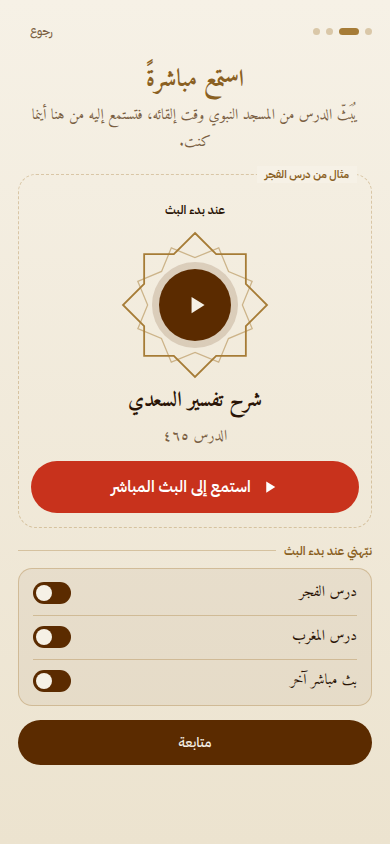
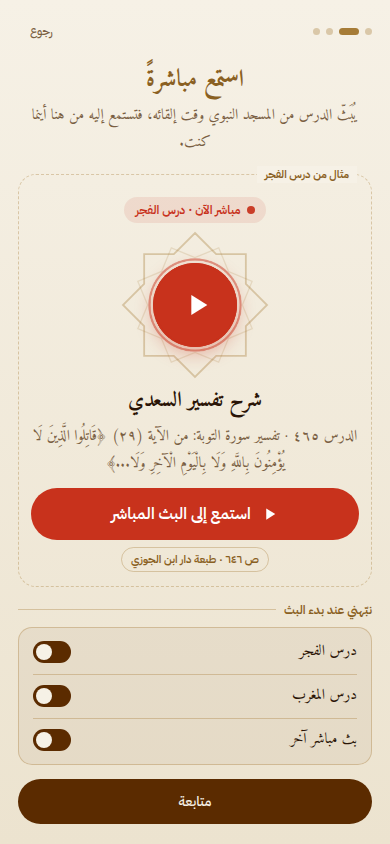
fix(onboarding): the live step shows the real live hero, red and pulsing
The off-air preview turned the live hero's colour and rings off, so the example did
not look like what the listener taps during a broadcast. The preview mode is gone:
off air, the hero is given the lesson as if it had just started, which reads the next
lesson and its passage from the course, and renders exactly as on air.

Changed region(s): [[0.0308, 0.4929, 0.9538, 0.9858], [0.3077, 0.2464, 0.6769, 0.4621], [0.8923, 0.4929, 0.9231, 0.5237]]

diff --git a/app/src/ui/LiveHero.tsx b/app/src/ui/LiveHero.tsx
@@ -3,22 +3,17 @@ import { liveContext, liveLesson } from '../logic/live';
 import { ar, slotName } from './format';
 import { Disc, Icon } from './Star';
 
-// preview: how the hero looks once the lesson starts, shown while nothing is on air.
-export function LiveHero(p: { course: CourseDTO | undefined; live: LiveDTO; listening: boolean; onLive: () => void; preview?: { number: number } }) {
+export function LiveHero(p: { course: CourseDTO | undefined; live: LiveDTO; listening: boolean; onLive: () => void }) {
   const c = p.course;
-  const ctx = c && !p.preview ? liveContext(c, true, p.live.startedAt) : null;
-  const number = p.preview ? p.preview.number : c ? liveLesson(c, p.live.startedAt).number : null;
+  const ctx = c ? liveContext(c, true, p.live.startedAt) : null;
+  const number = c ? liveLesson(c, p.live.startedAt).number : null;
   return (
     <div class="hero">
-      {p.preview ? (
-        <span class="tag">عند بدء البث</span>
-      ) : (
-        <span class="tag live">
-          <i class="dot" />
-          {c ? `مباشر الآن · درس ${slotName(c.slot)}` : 'مباشر الآن'}
-        </span>
-      )}
-      <Disc icon="play" label="استمع إلى البث المباشر" onClick={p.onLive} live={p.preview ? undefined : p.listening ? 'still' : 'pulse'} />
+      <span class="tag live">
+        <i class="dot" />
+        {c ? `مباشر الآن · درس ${slotName(c.slot)}` : 'مباشر الآن'}
+      </span>
+      <Disc icon="play" label="استمع إلى البث المباشر" onClick={p.onLive} live={p.listening ? 'still' : 'pulse'} />
       <h3>{c ? c.title : 'البث المباشر'}</h3>
       {number !== null && (
         <p>

diff --git a/app/src/ui/Onboarding.tsx b/app/src/ui/Onboarding.tsx
@@ -34,6 +34,9 @@ const TEXT: Record<Exclude<Step, 'app'>, { title: string; body: string; switches
   },
 };
 
+// Off air, the hero is shown as it will look once this lesson starts: it then reads the next lesson from the course.
+const onAir = (live: StateDTO['live'], course: CourseDTO) => (live.isLive && live.courseId === course.id ? live : { ...live, isLive: true, courseId: course.id, startedAt: null });
+
 // A card shown as an example: it looks real but nothing in it can be tapped, focused or read twice by a screen reader.
 function Example({ card, live, now }: { card: Card; live: StateDTO['live']; now: Date }) {
   const { course } = card;
@@ -45,8 +48,7 @@ function Example({ card, live, now }: { card: Card; live: StateDTO['live']; now:
   return (
     <div class="frame" inert aria-hidden="true" onClickCapture={block}>
       <span class="flabel">مثال من درس {slot}</span>
-      {card.kind === 'live' && <LiveHero course={course} live={live} listening={false} onLive={noop} />}
-      {card.kind === 'preview' && <LiveHero course={course} live={live} listening={false} onLive={noop} preview={{ number: card.number }} />}
+      {card.kind === 'live' && <LiveHero course={course} live={onAir(live, course)} listening={false} onLive={noop} />}
       {card.kind === 'recording' && <RecordingCard course={course} lesson={card.lesson} reviewed={false} onPlay={noop} onTick={noop} />}
       {card.kind === 'next' && <NextCard course={course} next={card.next} read={false} when={`${dayWord(card.next.date, now)} بعد ${slot} · ${clock12(card.next.time)}`} onTick={noop} />}
     </div>

diff --git a/app/test/cards.test.tsx b/app/test/cards.test.tsx
@@ -1,9 +1,8 @@
-import { cleanup, render, screen } from '@testing-library/preact';
+import { cleanup, render } from '@testing-library/preact';
 import { afterEach, describe, expect, it } from 'vitest';
 import { FIXTURE_STATE } from '../src/dev/fixture-state';
 import { NextCard, RecordingCard } from '../src/ui/cards';
 import { Lesson } from '../src/ui/Lesson';
-import { LiveHero } from '../src/ui/LiveHero';
 
 const [tafsir] = FIXTURE_STATE.courses;
 const MON_2110 = new Date('2026-11-02T18:10:00Z');
@@ -30,12 +29,5 @@ describe('cards shared by the lesson screen and the onboarding', () => {
     cleanup();
     const rec = render(<RecordingCard course={tafsir} lesson={tafsir.latest[0]} reviewed={false} onPlay={noop} onTick={noop} />);
     expect(rec.container.innerHTML).toBe(inLesson.recording);
-  });
-
-  it('the live hero has a preview for when nothing is on air', () => {
-    render(<LiveHero course={tafsir} live={FIXTURE_STATE.live} listening={false} onLive={noop} preview={{ number: 444 }} />);
-    expect(screen.getByText('عند بدء البث')).toBeTruthy();
-    expect(screen.getByText(/الدرس ٤٤٤/)).toBeTruthy();
-    expect(screen.queryByText(/مباشر الآن/)).toBeNull();
   });
 });

diff --git a/app/test/onboarding-logic.test.ts b/app/test/onboarding-logic.test.ts
@@ -68,13 +68,9 @@ describe('cardFor', () => {
     expect(cardFor('live', [tafsir, tawhid], liveDTO('kitab-tawhid'))).toEqual({ course: tawhid, kind: 'live' });
   });
 
-  it('live: otherwise a preview of the first picked lesson with its next number', () => {
-    expect(cardFor('live', [tafsir, tawhid], quiet)).toEqual({ course: tafsir, kind: 'preview', number: 444 });
-    expect(cardFor('live', [tafsir], liveDTO('kitab-tawhid'))).toEqual({ course: tafsir, kind: 'preview', number: 444 });
-  });
-
-  it('live: a lesson with nothing scheduled previews the lesson after its last one', () => {
-    expect(cardFor('live', [{ ...tafsir, next: null }], quiet)).toEqual({ course: { ...tafsir, next: null }, kind: 'preview', number: 444 });
+  it('live: otherwise the first picked lesson, shown as it will be on air', () => {
+    expect(cardFor('live', [tafsir, tawhid], quiet)).toEqual({ course: tafsir, kind: 'live' });
+    expect(cardFor('live', [tafsir], liveDTO('kitab-tawhid'))).toEqual({ course: tafsir, kind: 'live' });
   });
 
   it('revision: the first picked lesson with a recording', () => {

diff --git a/app/src/logic/onboarding.ts b/app/src/logic/onboarding.ts
@@ -13,7 +13,6 @@ export interface Draft {
 
 export type Card =
   | { course: CourseDTO; kind: 'live' }
-  | { course: CourseDTO; kind: 'preview'; number: number }
   | { course: CourseDTO; kind: 'recording'; lesson: LessonDTO }
   | { course: CourseDTO; kind: 'next'; next: NextPassageDTO };
 
@@ -46,11 +45,8 @@ export function stepTopics(step: Step, picked: CourseDTO[]): { topic: string; co
 
 export function cardFor(step: Step, picked: CourseDTO[], live: LiveDTO): Card | null {
   if (step === 'live') {
-    const onAir = live.isLive ? picked.find((c) => c.id === live.courseId) : undefined;
-    if (onAir) return { course: onAir, kind: 'live' };
-    const first = picked[0];
-    if (!first) return null;
-    return { course: first, kind: 'preview', number: first.next?.number ?? (first.latest[0]?.number ?? 0) + 1 };
+    const course = (live.isLive && picked.find((c) => c.id === live.courseId)) || picked[0];
+    return course ? { course, kind: 'live' } : null;
   }
   if (step === 'rec') {
     const course = picked.find((c) => c.latest[0]?.recordingUrl);

diff --git a/app/test/onboarding.test.tsx b/app/test/onboarding.test.tsx
@@ -102,10 +102,12 @@ describe('the app screen', () => {
 });
 
 describe('the live step', () => {
-  it('shows the real live hero of the first lesson, as it will look when the broadcast starts', async () => {
+  it('shows the live hero of the first lesson exactly as during a broadcast: red, pulsing, with its next lesson', async () => {
     await toLive();
     expect(screen.getByText('مثال من درس الفجر')).toBeTruthy();
-    expect(screen.getByText('عند بدء البث')).toBeTruthy();
+    expect(screen.getByText('مباشر الآن · درس الفجر')).toBeTruthy();
+    expect(document.querySelector('.frame .disc')!.className).toBe('disc live pulse');
+    expect(screen.getByText(/الدرس ٤٤٤/)).toBeTruthy();
     expect(screen.getByText(fajr.title)).toBeTruthy();
     expect(switchOf('درس الفجر').getAttribute('aria-checked')).toBe('true');
     expect(switchOf('درس المغرب').getAttribute('aria-checked')).toBe('true');

diff --git a/app/test/visual/onboarding.visual.test.tsx b/app/test/visual/onboarding.visual.test.tsx
@@ -76,6 +76,14 @@ it('each switch row is a thumb-sized target and the example is labelled', async 
   for (const row of rows) expect(row.getBoundingClientRect().height).toBeGreaterThanOrEqual(44);
 });
 
+it('the example live hero paints and pulses like the real one', async () => {
+  const c = await at(1);
+  const disc = c.querySelector<HTMLElement>('.frame .disc .btn')!;
+  const go = c.querySelector<HTMLElement>('.frame .go-live')!;
+  expect(getComputedStyle(disc).backgroundColor).toBe(getComputedStyle(go).backgroundColor);
+  expect(getComputedStyle(disc, '::before').animationName).toBe('ring');
+});
+
 it('a real tap on the example book link opens nothing', async () => {
   location.hash = '#/';
   const c = await at(2);

diff --git a/docs/design/onboarding.md b/docs/design/onboarding.md
@@ -17,7 +17,7 @@ The first launch explains what the app is for and lets the listener choose their
 ```
 
 - **Screen 1** names each lesson with its real title, days and time, as checkable cards. At least one must be ticked.
-- **Steps 2–4** each show one card from the lesson screen (`LiveHero`, `RecordingCard`, `NextCard` from `ui/cards.tsx`), taken from the first ticked lesson that has the data, inside a frame labelled «مثال من درس …». Nothing in the frame reacts: `inert` and `aria-hidden` for focus and screen readers, a capture-phase click handler for taps. When nothing is on air the hero shows its preview («عند بدء البث», the next lesson's number).
+- **Steps 2–4** each show one card from the lesson screen (`LiveHero`, `RecordingCard`, `NextCard` from `ui/cards.tsx`), taken from the first ticked lesson that has the data, inside a frame labelled «مثال من درس …». Nothing in the frame reacts: `inert` and `aria-hidden` for focus and screen readers, a capture-phase click handler for taps. The live step shows the hero exactly as during a broadcast (red, pulsing, «مباشر الآن»); when nothing is on air it is given the lesson as if it had just started, so it reads the next lesson and its passage from the course.
 - Under the card, one switch per ticked lesson for that notification (plus «بث مباشر آخر» on the live step). Everything starts on.
 - **Permission** is asked when the listener continues from the first step that has a switch on, and only while it is still `prompt`. Refused: the switches stay, with a line saying they will work once enabled.
 - **Web:** the same screens without switches or permission.
